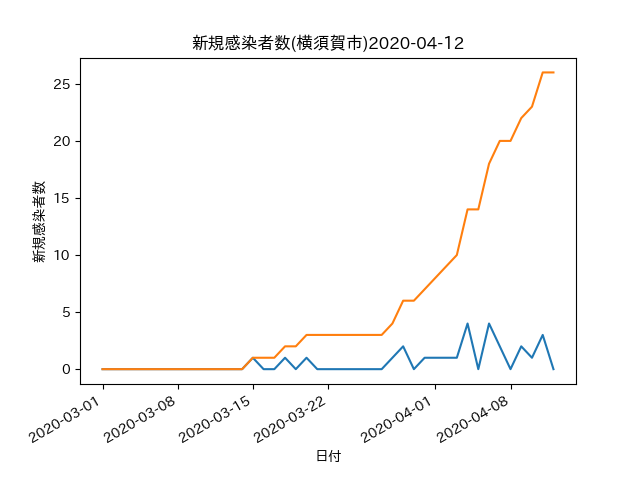
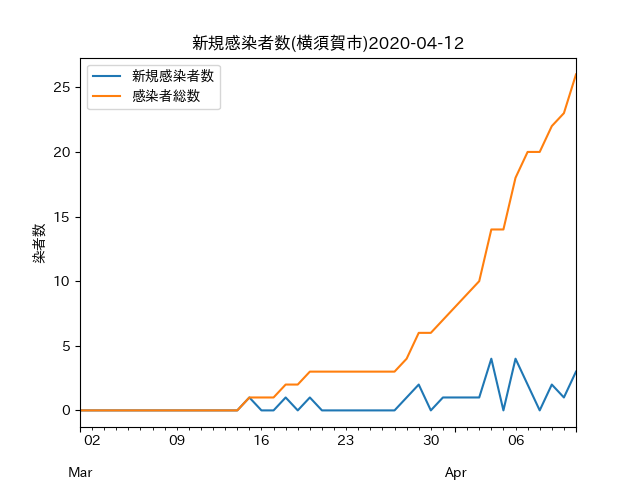
Fix lengened and refactor code

diff --git a/make_chart.py b/make_chart.py
@@ -9,7 +9,7 @@ from datetime import timedelta
 
 def get_datelist():
     strdt = dt.strptime("2020-03-01", '%Y-%m-%d')
-    enddt = dt.today()
+    enddt = dt.today() - timedelta(days=1)
 
     days_num = (enddt - strdt).days + 1
 
@@ -38,19 +38,18 @@ if __name__=='__main__':
         if idx in chart:
             full_date[idx]=chart[idx]
 
-    df_full_date=pd.DataFrame({'each':full_date})
-    df_full_date['sum']=0
+    df_full_date=pd.DataFrame({'新規感染者数':full_date})
+    df_full_date['感染者総数']=0
 
     psum = 0
     for idx,item in df_full_date.iterrows():
-        psum=psum+df_full_date.at[idx, 'each']
-        df_full_date.at[idx, 'sum']=psum
+        psum=psum+df_full_date.at[idx, '新規感染者数']
+        df_full_date.at[idx, '感染者総数']=psum
 
-
-    plt.plot(df_full_date)
     tdy=dd.today().strftime('%Y-%m-%d')
-    plt.title('新規感染者数(横須賀市)'+tdy)
-    plt.xlabel('日付')
-    plt.ylabel('新規感染者数')
-    plt.gcf().autofmt_xdate()
-    plt.savefig('chart_of_covid19_in_yokosuka.png')
+
+    ax = df_full_date.plot(title='新規感染者数(横須賀市)'+tdy)
+    ax.set_xlabel('日付')
+    ax.set_ylabel('染者数')
+    fig = ax.get_figure()
+    fig.savefig('chart_of_covid19_in_yokosuka.png')

diff --git a/README.md b/README.md
@@ -1,2 +1,6 @@
 # covid19_chart_in_yokosuka
-Simple chart
+
+横須賀市の発表によるコロナ感染者数の推移をチャートにしています。
+
+https://www.city.yokosuka.kanagawa.jp/3130/hasseijoukyou.html
+の情報を元に作成しています。
